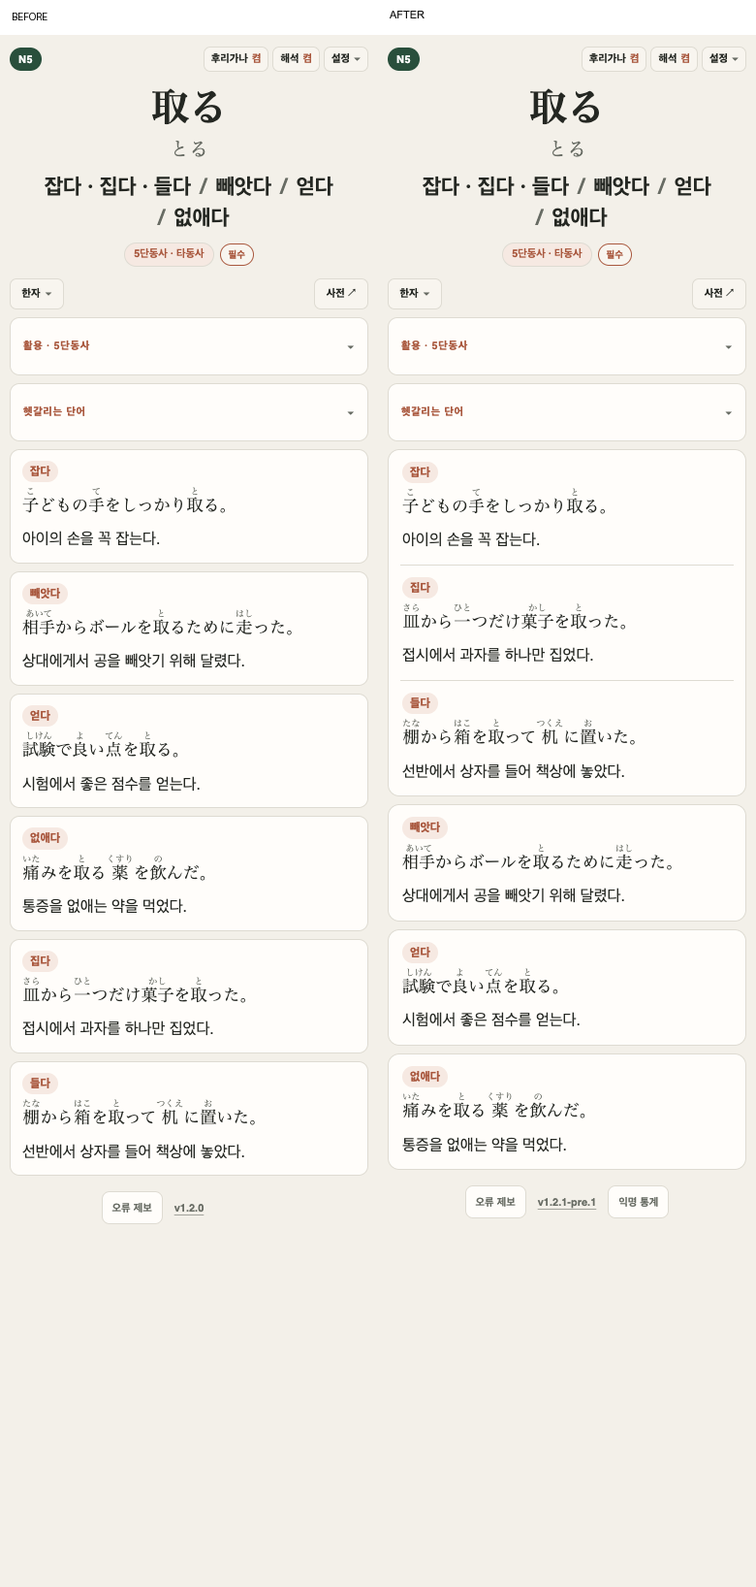
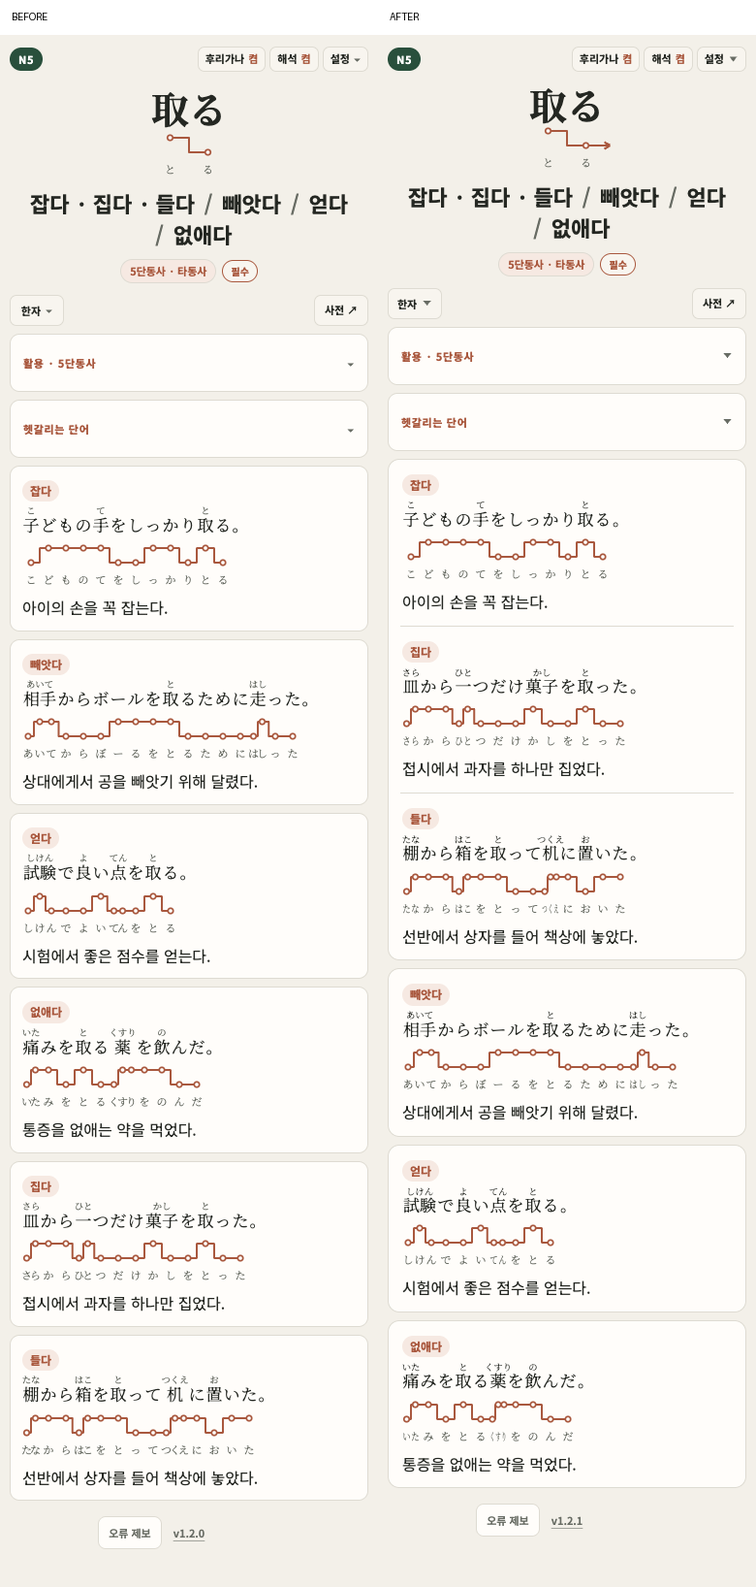
docs(release): describe v1.2.1 learner changes

diff --git a/docs/jlpt-gallery-updates/v1.2.1.html b/docs/jlpt-gallery-updates/v1.2.1.html
@@ -1,45 +1,59 @@
 <meta charset="utf-8">
 <!-- 상태: v1.2.1 릴리스 후보 검증 완료. 갤러리 게시 전 최종 검토용 초안. -->
-<!-- 게시글 제목: [Anki] JLPT MAX 덱 v1.2.1 - 카드 표시와 뜻 순서 교정 -->
+<!-- 게시글 제목: [Anki] JLPT MAX 덱 v1.2.1 - 폰트 깜빡임·뜻 순서 교정 -->
 <div style="max-width:760px;margin:0 auto;color:#1b211d;background:#fff;font-family:-apple-system,BlinkMacSystemFont,'Apple SD Gothic Neo','Noto Sans KR','Malgun Gothic',sans-serif;font-size:16px;line-height:1.8;word-break:keep-all;">
   <div style="padding:38px 28px 34px;text-align:center;color:#fff;background:#101512;border-top:8px solid #d8ff62;border-bottom:1px solid #2f3933;">
     <div style="margin-bottom:12px;color:#d8ff62;font-size:13px;font-weight:800;letter-spacing:.12em;">JLPT MAX Deck · v1.2.1</div>
-    <div style="font-size:36px;font-weight:900;line-height:1.2;letter-spacing:-.05em;">카드가 흔들리지 않게,<br>뜻과 읽기가 맞게.</div>
+    <div style="font-size:36px;font-weight:900;line-height:1.2;letter-spacing:-.05em;">카드는 덜 깜빡이고,<br>뜻과 예문은 제자리로.</div>
     <p style="max-width:620px;margin:18px auto 0;color:#d9dedb;font-size:18px;line-height:1.65;">
-      Mac에서 한자 버튼을 열고, 후리가나와 고저표를 읽고, 제보된 콘텐츠를 다시 확인한 안정판 패치.
+      카드를 넘길 때 글꼴과 글자가 움직이는 현상을 줄이고, 뜻과 예문을 같은 순서로 맞춘 안정화 업데이트.
     </p>
   </div>
 
+  <div style="padding:34px 8px 8px;">
+    <div style="padding:20px 22px;color:#1b211d;background:#fff3cd;border-left:8px solid #ffbf47;">
+      <strong style="font-size:19px;">v1.2.0에서 업데이트</strong><br>
+      <span style="color:#5f5436;">기존 덱을 삭제하지 않고 v1.2.1 APKG를 가져온 뒤, 학습 진행 상태는 끄고 기존 노트 업데이트는 새 버전일 때, 노트 유형 병합은 켜기를 선택함. 기존 한자 확장은 다시 만들 필요 없음.</span>
+    </div>
+  </div>
+
   <div style="padding:44px 8px 8px;">
-    <div style="padding-left:14px;border-left:7px solid #d8ff62;font-size:25px;font-weight:900;letter-spacing:-.04em;">한자 버튼과 사전 버튼을 같은 줄에서</div>
-    <p style="margin:16px 0 0;">한자 버튼은 카드가 직접 만든 클릭 동작 대신 기본 열고 닫기 동작을 사용함. Mac Anki에서도 두 버튼의 높이와 폭을 맞추고, 닫힘·펼침 화살표를 같은 칸에서 회전시켜 ‘한자’ 글자가 밀리지 않게 함.</p>
+    <div style="padding-left:14px;border-left:7px solid #d8ff62;font-size:25px;font-weight:900;letter-spacing:-.04em;">뜻을 본 순서대로 예문도 읽게</div>
+    <p style="margin:16px 0 0;">어휘 102개는 위쪽 뜻과 아래쪽 예문 순서를 맞췄음. 뜻이 <strong>/</strong>로 나뉘는 어휘 651개는 서로 다른 뜻의 예문을 흰색 영역으로 나눠, 어떤 예문이 어느 뜻에 속하는지 바로 구분할 수 있음.</p>
+    <p style="margin:12px 0 0;"><strong>取る</strong>는 <strong>잡다 · 집다 · 들다 / 빼앗다 / 얻다 / 없애다</strong> 순서로 뜻을 보고, 바로 아래에서도 같은 순서로 예문을 읽을 수 있음.</p>
+    <div style="margin-top:22px;text-align:center;">
+      <img src="https://truthyblue.github.io/jlpt-max-deck/assets/releases/v1.2.1/gallery-v1.2.1-meaning-groups-before-after.png" width="780" height="1636" loading="lazy" alt="v1.2.0과 v1.2.1의 取る 카드에서 뜻과 예문 순서를 비교한 화면" style="display:block;width:100%;max-width:620px;height:auto;margin:0 auto;background:#f5f1e8;border:1px solid #38433d;border-radius:12px;">
+    </div>
+  </div>
+
+  <div style="margin-top:28px;padding:34px 28px;color:#fff;background:#15201b;border-left:8px solid #8ee6b1;">
+    <div style="color:#8ee6b1;font-size:12px;font-weight:800;letter-spacing:.1em;">CARD VIEW</div>
+    <div style="margin-top:9px;font-size:25px;font-weight:900;line-height:1.3;letter-spacing:-.04em;">카드를 넘길 때 덜 깜빡이게</div>
+    <p style="margin:18px 0 0;color:#d9dedb;">Mac Anki에서 새 카드로 넘어갈 때 일본어가 굵게 보였다가 선택한 글꼴로 바뀌는 순간을 줄였음. 설정에서 명조체와 고딕체를 바꿀 때도 카드가 잠깐 사라지지 않고 글꼴만 바뀜.</p>
+    <p style="margin:12px 0 0;color:#d9dedb;">긴 후리가나는 옆 글자를 밀지 않고, 고저 악센트 선도 처음 나타날 때 덜 움직임.</p>
+  </div>
+
+  <div style="padding:44px 8px 8px;">
+    <div style="padding-left:14px;border-left:7px solid #d8ff62;font-size:25px;font-weight:900;letter-spacing:-.04em;">한자 버튼을 열어도 글자가 밀리지 않게</div>
+    <p style="margin:16px 0 0;">한자 버튼과 사전 버튼의 크기를 맞췄음. 한자 내용을 열고 닫아도 화살표와 ‘한자’ 글자가 옆으로 움직이지 않음.</p>
     <div style="margin-top:22px;text-align:center;">
       <img src="https://truthyblue.github.io/jlpt-max-deck/assets/releases/v1.2.1/gallery-v1.2.1-kanji-disclosure-closed.png" width="1280" height="720" loading="lazy" alt="Mac Anki에서 한자 버튼과 사전 버튼을 나란히 표시한 화면" style="display:block;width:100%;max-width:620px;height:auto;margin:0 auto;background:#f5f1e8;border:1px solid #38433d;border-radius:12px;">
-      <img src="https://truthyblue.github.io/jlpt-max-deck/assets/releases/v1.2.1/gallery-v1.2.1-kanji-disclosure-open.png" width="1280" height="720" loading="lazy" alt="한자 버튼을 연 뒤의 기본 상세 패널" style="display:block;width:100%;max-width:620px;height:auto;margin:16px auto 0;background:#f5f1e8;border:1px solid #38433d;border-radius:12px;">
+      <img src="https://truthyblue.github.io/jlpt-max-deck/assets/releases/v1.2.1/gallery-v1.2.1-kanji-disclosure-open.png" width="1280" height="720" loading="lazy" alt="한자 버튼을 연 뒤의 상세 내용" style="display:block;width:100%;max-width:620px;height:auto;margin:16px auto 0;background:#f5f1e8;border:1px solid #38433d;border-radius:12px;">
     </div>
   </div>
 
   <div style="margin-top:28px;padding:34px 28px;color:#fff;background:#15201b;border-left:8px solid #8ee6b1;">
-    <div style="color:#8ee6b1;font-size:12px;font-weight:800;letter-spacing:.1em;">READING</div>
-    <div style="margin-top:9px;font-size:25px;font-weight:900;line-height:1.3;letter-spacing:-.04em;">후리가나는 본문을 밀지 않게</div>
-    <p style="margin:18px 0 0;color:#d9dedb;">긴 후리가나는 본문 폭에 포함하지 않고, 실제로 옆 글자와 부딪힐 때만 필요한 만큼 간격을 둠. 고저표는 문장과 곡선 폭을 그대로 두고 좁은 모라의 히라가나 라벨만 칸 안에서 조정함.</p>
+    <div style="color:#8ee6b1;font-size:12px;font-weight:800;letter-spacing:.1em;">MOBILE SETTINGS</div>
+    <div style="margin-top:9px;font-size:25px;font-weight:900;line-height:1.3;letter-spacing:-.04em;">익명 통계 설정도 모바일에서 정상 작동</div>
+    <p style="margin:18px 0 0;color:#d9dedb;">iPhone·iPad와 Android 카드에서도 익명 통계 설정과 동의 창이 정상적으로 열림. 공유를 껐다 다시 켜거나 덱을 업데이트해도 같은 기기를 새 설치로 중복 집계하지 않음.</p>
   </div>
 
-  <div style="padding:44px 8px 8px;">
-    <div style="padding-left:14px;border-left:7px solid #d8ff62;font-size:25px;font-weight:900;letter-spacing:-.04em;">取る: 뜻 순서와 예문 순서 그대로</div>
-    <p style="margin:16px 0 0;"><strong>잡다 · 집다 · 들다 / 빼앗다 / 얻다 / 없애다</strong>라는 뜻 표시와 같은 순서로 예문을 배치함. 같은 뜻 묶음은 한 흰색 영역에 모으고, 독립 뜻은 다음 영역으로 나눔.</p>
-    <div style="margin-top:22px;text-align:center;">
-      <img src="https://truthyblue.github.io/jlpt-max-deck/assets/releases/v1.2.1/gallery-v1.2.1-meaning-groups-before-after.png" width="780" height="1636" loading="lazy" alt="v1.2.0과 v1.2.1의 取る 카드에서 뜻 묶음별 예문 표시를 비교한 화면" style="display:block;width:100%;max-width:620px;height:auto;margin:0 auto;background:#f5f1e8;border:1px solid #38433d;border-radius:12px;">
-    </div>
-  </div>
-
-  <div style="margin-top:28px;padding:34px 28px;color:#fff;background:#15201b;border-left:8px solid #8ee6b1;">
-    <div style="color:#8ee6b1;font-size:12px;font-weight:800;letter-spacing:.1em;">CONTENT</div>
-    <div style="margin-top:9px;font-size:25px;font-weight:900;line-height:1.3;letter-spacing:-.04em;">제보된 세 가지 표현도 교정</div>
-    <p style="margin:18px 0 0;color:#d9dedb;"><strong>猛</strong>은 `もう`, <strong>縁</strong>은 `가장자리 연 · 테두리 연`, <strong>木曜日</strong>는 정답과 해설 번호가 서로 맞도록 고쳤음.</p>
-    <div style="margin-top:20px;padding:18px 20px;color:#1b211d;background:#fff3cd;border-left:8px solid #ffbf47;">
-      <strong>v1.2.0에서 업데이트</strong><br>
-      <span style="color:#5f5436;">기존 덱을 삭제하지 않고 v1.2.1 APKG를 가져온 뒤, 학습 진행 상태는 끄고 기존 노트 업데이트는 새 버전일 때, 노트 유형 병합은 켜기를 선택함.</span>
+  <div style="padding:44px 8px 44px;">
+    <div style="padding-left:14px;border-left:7px solid #d8ff62;font-size:25px;font-weight:900;letter-spacing:-.04em;">제보된 세 가지 내용도 교정</div>
+    <p style="margin:16px 0 0;"><strong>猛</strong>은 <strong>もう</strong>로 읽고, <strong>縁</strong>은 <strong>가장자리 연 · 테두리 연</strong>으로 보기 쉽게 띄어 썼음. <strong>木曜日</strong> 문제는 정답 ②와 해설 ②가 서로 맞도록 고쳤음.</p>
+    <p style="margin:20px 0 0;color:#4e5852;">기본 덱 13,903노트·20,065카드와 기존 학습 기록은 그대로 유지됨. 음성도 기존 18,435개를 그대로 사용함.</p>
+    <div style="margin-top:22px;padding:18px 20px;text-align:center;background:#eef8f1;border:1px solid #cbded2;border-radius:12px;">
+      <a href="https://github.com/truthyblue/jlpt-max-deck/blob/v1.2.1/docs/release-details/v1.2.1.md" target="_blank" rel="noopener noreferrer" style="color:#173b26;font-weight:900;text-decoration:none;">v1.2.1 상세 변경 내역 보기 →</a>
     </div>
   </div>
 </div>

diff --git a/docs/release-details/v1.2.1.md b/docs/release-details/v1.2.1.md
@@ -1,94 +1,81 @@
 # JLPT MAX Deck v1.2.1 상세 변경 내역
 
-## 릴리스 경계
+v1.2.1은 카드를 넘길 때 글꼴과 글자가 움직이는 현상을 줄이고, 뜻과 예문을
+같은 순서로 맞춘 안정화 업데이트입니다.
 
-이번 파일은 정식 `v1.2.1`의 검토 범위와 실제 배포 산출물을 기록합니다. APKG
-내부 버전과 다운로드 파일명 모두 `1.2.1`을 사용합니다.
+## v1.2.0에서 업데이트하기
 
-## v1.2.0에서 유지한 것
+1. 모든 기기의 Anki 동기화를 끝내거나 컬렉션 백업을 확인합니다.
+2. 기존 덱을 삭제하지 않고 `JLPT-MAX-Deck-1.2.1.apkg`를 가져옵니다.
+3. **학습 진행 상태 가져오기 → 끄기**, **기존 노트 업데이트 → 새 버전일 때**,
+   **노트 유형 병합 → 켜기**를 선택합니다.
 
-| 항목 | 결과 |
-| --- | ---: |
-| 뜻 표시 순서에 맞춰 예문 순서를 바꾼 어휘 | 102개 |
-| 슬래시 뜻을 흰색 영역으로 나눠 표시한 어휘 | 651개 |
-| 두 변경의 합집합 | 697개 |
-| 추가·삭제된 노트 | 0개 |
-| 새로 합성한 음성 | 0개 |
+한자 확장 내용은 그대로이므로 v1.2.0에서 만든 확장을 다시 만들 필요가 없습니다.
 
-102개와 651개에는 두 조건에 모두 해당하는 어휘가 있어 합계가 697개입니다.
-뜻 문구 자체와 예문 문장·번역·음성은 이 변경에서 바꾸지 않았습니다.
+## 뜻과 예문
 
-## 카드 표시
+| 바뀐 점 | 수량 | 사용자가 보는 변화 |
+| --- | ---: | --- |
+| 뜻 표시 순서에 맞춰 예문 순서 조정 | 102개 | 위에서 본 뜻과 아래 예문을 같은 순서로 읽을 수 있음 |
+| `/`로 나뉜 뜻의 예문을 영역별로 구분 | 651개 | 서로 다른 뜻의 예문을 흰색 영역으로 나눠 볼 수 있음 |
+| 두 변경의 합집합 | 697개 | 두 조건에 모두 해당하는 어휘는 한 번만 셈 |
+
+`取る`는 `잡다 · 집다 · 들다 / 빼앗다 / 얻다 / 없애다` 순서로 뜻이 나오고,
+예문도 같은 순서로 나옵니다. 뜻 문구, 예문 문장, 번역과 음성은 바꾸지 않았습니다.
+
+![v1.2.0과 v1.2.1의 뜻 묶음별 예문 표시 비교](https://raw.githubusercontent.com/truthyblue/jlpt-max-deck/v1.2.1/site/assets/releases/v1.2.1/gallery-v1.2.1-meaning-groups-before-after.png)
+
+## 카드 화면
+
+### 글꼴 깜빡임
+
+Mac Anki에서 새 카드로 넘어갈 때 일본어가 굵게 보였다가 선택한 글꼴로 바뀌는
+순간을 줄였습니다. 고저 악센트 선도 처음 나타날 때 덜 움직입니다. 설정에서
+명조체와 고딕체를 바꿀 때는 카드 전체가 사라지지 않고 글꼴만 바로 바뀝니다.
+
+### 후리가나와 고저 악센트
+
+긴 후리가나가 옆 글자를 밀어내지 않습니다. 후리가나끼리 실제로 닿을 때만
+필요한 만큼 간격을 벌립니다. 문장과 고저 악센트 선은 원래 자리를 유지하므로
+길이가 긴 읽기도 더 안정적으로 볼 수 있습니다.
 
 ### 한자 버튼
 
-한자 버튼을 직접 만든 클릭 스크립트에서 기본 HTML `details/summary`로
-복원했습니다. 그래서 Mac Anki의 WebKit이 처리하는 기본 열기·닫기 동작을
-사용합니다. 카드의 사전 버튼과 한자 버튼은 같은 높이와 폭을 쓰도록 맞췄고,
-화살표는 닫힘·펼침 모두 같은 11×11px 칸을 사용합니다. 펼칠 때는 같은
-화살표를 180도 돌린 뒤 글꼴의 위아래 여백 차이를 3px 보정하므로 `한자`
-글자의 가로 위치가 밀리지 않고 두 화살표의 표시 영역도 맞습니다.
-한자 패널을 열었을 때 본문이 보이는지도 확인했습니다.
+한자 버튼과 사전 버튼의 높이와 폭을 맞췄습니다. 한자 내용을 열고 닫을 때
+화살표와 `한자` 글자가 옆으로 밀리지 않으며, 펼친 내용도 정상적으로 보입니다.
 
-### 후리가나와 고저표
+![Mac Anki에서 한자 버튼과 사전 버튼을 나란히 표시한 화면](https://raw.githubusercontent.com/truthyblue/jlpt-max-deck/v1.2.1/site/assets/releases/v1.2.1/gallery-v1.2.1-kanji-disclosure-closed.png)
 
-후리가나는 본문 글자의 폭을 차지하는 별도 상자처럼 처리하지 않습니다. 예를
-들어 `携帯電話`의 본문과 고저 곡선은 기존 위치를 유지하고, 좁은 모라 칸의
-`けい`·`たい` 같은 라벨만 그 칸 안에서 줄여 표시합니다. 긴 후리가나가 옆
-단어를 밀어내는 경우에는 실제로 겹칠 때만 겹친 만큼 간격을 넣습니다.
+![한자 버튼을 연 뒤의 상세 내용](https://raw.githubusercontent.com/truthyblue/jlpt-max-deck/v1.2.1/site/assets/releases/v1.2.1/gallery-v1.2.1-kanji-disclosure-open.png)
 
-WebKit에서 `<ruby><rt>`를 다루는 방식이 다른 경우에는 후리가나를 카드 전용
-표시 상자로 바꿔 같은 위치에 놓습니다. 글꼴 전환 중에는 글꼴이 준비될 때까지
-카드를 숨겼다가 한 번에 보여 줍니다. 이 때문에 `財` 카드로 이동할 때 굵은
-글꼴이 일반 글꼴로 깜빡이는 현상과 고저표의 초기 위치 튐을 함께 줄였습니다.
+## 모바일 익명 통계 설정
 
-## 콘텐츠 교정
+iPhone·iPad와 Android 카드에서 `익명 통계` 설정과 동의 창이 정상적으로 열립니다.
+공유를 껐다 다시 켜거나 덱을 업데이트해도 같은 기기를 새 설치로 중복 집계하지
+않습니다. 앱 데이터 삭제나 재설치 때만 새 설치로 집계됩니다.
 
-| 제보 | 수정 |
-| --- | --- |
-| `猛` 선택지 후리가나 | `たけし` → `もう` |
-| `縁` 뜻 간격 | `① 인연 연  ② 가장자리 연·테두리 연` → `① 인연 연 ② 가장자리 연 · 테두리 연` |
-| `木曜日` 문제 해설 | 정답 ②의 해설이 보기 ②를 설명하도록 순서 교정 |
+## 제보로 고친 내용
 
-이 세 교정은 기존 노트·카드 ID를 바꾸지 않는 카드 생성 단계의 보정입니다.
+| 단어 | 읽기 | 종류 | 이전 | 변경 | 이유 |
+| --- | --- | --- | --- | --- | --- |
+| `猛` | `もう` | 선택지 읽기 | `たけし` | `もう` | `猛反対`의 실제 읽기와 맞춤 |
+| `縁` | — | 뜻 표기 | `① 인연 연  ② 가장자리 연·테두리 연` | `① 인연 연 ② 가장자리 연 · 테두리 연` | 두 뜻과 같은 묶음의 표현을 한눈에 구분 |
+| `木曜日` | `もくようび` | 문제 해설 | 정답 ②와 해설 번호가 다름 | 정답 ②와 해설 ②가 일치 | 맞은 이유를 다른 보기의 해설과 헷갈리지 않게 함 |
 
-## 익명 사용 통계
-
-공유를 꺼도 기존 익명 설치 식별자는 기기 저장소에 남습니다. 공유를 다시 켜거나
-덱을 업데이트하고 앱을 껐다 켜도 같은 설치로 집계됩니다. 앱 데이터 삭제나
-재설치 때만 새 식별자가 만들어집니다.
-
-## 제보 테스트 덱 전수 목록
-
-이번 릴리스에 포함한 제보를 모두 작은 테스트 덱으로 분리해 9노트·14카드·22개
-미디어로 확인했습니다.
-
-| 제보 ID | 카드 | 확인 내용 |
-| --- | --- | --- |
-| R-76BD4984E3B1 | `援助` | 후리가나가 본문을 밀지 않고 겹칠 때만 간격 추가 |
-| R-B701504DE200 | 긴 후리가나 | 본문 폭을 늘리지 않음 |
-| R-39D2EB0E85BA | 글꼴 전환 | 전환 중 카드 깜빡임·높이 튐 없음 |
-| R-A354ED4ED268 | `携帯電話` | 좁은 고저표 모라 라벨만 조정 |
-| R-FB369F0265FD | `暴れる` | 한자 상세 패널 열기·닫기, 화살표 고정 칸·글자 위치 |
-| R-AEC03A03B197 | `財` | 글꼴 전환 뒤 표시 안정성 |
-| R-10906930E034 | `縁` | 뜻이 `가장자리 연 · 테두리 연`으로 붙어 보임 |
-| R-A3614346B234 | `猛` | 선택지 후리가나가 `もう`인지 확인 |
-| R-9F1D1178E957 | `木曜日` | 보기와 해설 번호 매핑 일치 |
-
-테스트 덱은 배포용 덱에 포함하지 않고, 이번 패치의 재현 범위만 확인하는
-검사용 산출물로 유지합니다.
-
-## 전체 APKG와 업데이트 확인
+## 전체 덱과 업데이트 확인
 
 - private 전체 APKG: 16,240노트·22,402카드
 - public 기본 APKG: 13,903노트·20,065카드
-- 음성: 18,435개 기존 바이트 재사용, 새 합성 0개
-- 한자 builder: 같은 검증된 입력으로 v1.2.1 파일 재생성
-- v1.2.0 컬렉션에 가져온 뒤 새 노트 0개·중복 0개·충돌 0개
-- 기존 GUID·학습 일정·노트 유형과 카드 구조 유지
-- 릴리스 워크플로 테스트와 pyright 통과
+- 기본 덱 미디어: 18,438개
+- 음성: 기존 18,435개 그대로 사용, 새 합성 0개
+- v1.2.0 덱에 가져온 뒤 새 노트 0개·중복 0개·충돌 0개
+- 기존 학습 기록, 일정과 카드 구조 유지
+- 제보 9건을 작은 검사 덱 9노트·14카드로 모두 확인
+- 전체 APKG 생성·가져오기와 릴리스 검사를 통과
 
-## 산출물
+실물 iPhone·iPad와 Android에서는 이번 안정판을 따로 재검증하지 않았습니다.
+
+## 파일 검증값
 
 | 파일 | bytes | SHA-256 |
 | --- | ---: | --- |

diff --git a/docs/release-drafts/v1.2.1-github-release.md b/docs/release-drafts/v1.2.1-github-release.md
@@ -1,6 +1,9 @@
 # JLPT MAX Deck v1.2.1
 
-## v1.2.0에서 가져오기
+카드를 넘길 때 일본어 글꼴이 번쩍 바뀌거나 글자가 움직이는 현상을 줄이고,
+뜻과 예문을 같은 순서로 맞춘 안정화 업데이트입니다.
+
+## v1.2.0에서 업데이트하기
 
 1. 모든 기기의 Anki 동기화를 끝내거나 컬렉션 백업을 확인합니다.
 2. 기존 덱을 삭제하지 않고 `JLPT-MAX-Deck-1.2.1.apkg`를 가져옵니다.
@@ -9,67 +12,55 @@
 
 한자 확장 내용은 v1.2.0과 같아서 다시 만들 필요가 없습니다.
 
-## 바뀐 점
+## 뜻과 예문을 바로 연결해서 보기
 
-### 뜻과 예문
-
-- 뜻 1·2·3의 표시 순서와 예문 순서가 어긋난 어휘 102개의 예문을 뜻 표시
-  순서대로 맞췄습니다.
-- 슬래시(`/`)로 나뉜 뜻이 여러 개인 어휘 651개는 뜻 묶음별로 예문을 흰색
-  영역에 나눠 보여 줍니다. 묶음용 칩은 따로 추가하지 않았습니다.
-- 예를 들어 `取る`는 `잡다 · 집다 · 들다 / 빼앗다 / 얻다 / 없애다` 순서에
-  맞춰 예문도 `잡다 → 집다 → 들다 → 빼앗다 → 얻다 → 없애다` 순서로
-  표시됩니다.
-
-### 카드 표시와 Mac WebKit
-
-- 한자 버튼은 임의로 만든 버튼 동작을 제거하고 기본 `details/summary` 동작으로
-  되돌렸습니다. Mac Anki에서 사전 버튼과 한자 버튼의 높이·너비를 같게
-  표시합니다. 닫힘·펼침 화살표는 같은 11×11px 칸을 쓰고 같은 화살표를
-  회전한 뒤 글꼴의 위아래 여백 차이를 3px 보정해 `한자` 글자가 밀리지 않게
-  했습니다. 한자 내용을 열고 닫는 동작도 같은 카드 안에서 확인했습니다.
-- 긴 후리가나는 문장이나 한자 본문의 폭을 늘리지 않게 했습니다. 후리가나끼리
-  실제로 부딪힐 때만 필요한 만큼 간격을 추가합니다.
-- 고저표는 문장·한자·후리가나·곡선의 폭을 바꾸지 않습니다. 모라 칸이 좁을
-  때만 그 칸 안의 히라가나 글자를 눌러 표시합니다.
-- 일본어 글꼴을 바꿀 때 글꼴이 적용되기 전 카드를 잠깐 숨겨서 굵은 글꼴에서
-  일반 글꼴로 깜빡이는 현상을 줄였습니다. Mac/iOS WebKit의 후리가나 처리
-  차이도 카드가 알아서 보정합니다.
-
-![Mac Anki에서 한자 버튼과 사전 버튼을 나란히 표시한 화면](https://raw.githubusercontent.com/truthyblue/jlpt-max-deck/v1.2.1/site/assets/releases/v1.2.1/gallery-v1.2.1-kanji-disclosure-closed.png)
-
-![한자 버튼을 연 뒤의 기본 상세 패널](https://raw.githubusercontent.com/truthyblue/jlpt-max-deck/v1.2.1/site/assets/releases/v1.2.1/gallery-v1.2.1-kanji-disclosure-open.png)
-
-### 제보로 확인한 콘텐츠
-
-- `猛` 선택지의 후리가나를 `たけし`에서 `もう`로 고쳤습니다.
-- `縁`의 뜻을 `① 인연 연 ② 가장자리 연 · 테두리 연`처럼 읽기 쉽게
-  표시합니다.
-- `木曜日` 문제에서 정답 ②와 해설 ②의 번호가 서로 맞도록 고쳤습니다.
-
-### 익명 통계
-
-- 카드 아래 버전 표시와 익명 사용 통계·오류 제보 버전을 `1.2.1`로 맞췄습니다.
-- iOS·Android 카드에서 `익명 통계` 설정과 동의 창, 답변 집계가 정상
-  시작되도록 고쳤습니다.
-- 익명 통계 공유를 꺼도 기존 설치 식별자는 기기에 남습니다. 다시 켜거나 덱을
-  업데이트하고 앱을 껐다 켜도 같은 설치로 집계되며, 앱 데이터 삭제나 재설치 때만
-  새 식별자가 만들어집니다.
-
-## 확인한 범위
-
-- 오류 제보 전용 테스트 덱에 선택한 9개 제보를 9노트·14카드로 넣어 확인했습니다.
-- 릴리스 워크플로 테스트, pyright, 전체 APKG 생성·가져오기 호환성 검사를
-  통과했습니다.
-- 음성 18,435개는 기존 AivisSpeech 1.2.0 결과를 그대로 재사용했고 새로 합성한
-  음성은 0개입니다.
-- 노트·카드 ID, 덱 구조, 학습 일정 호환성은 v1.2.0과 같습니다.
+- 어휘 102개는 카드 위쪽의 뜻과 아래쪽 예문이 같은 순서로 나옵니다.
+- 뜻이 `/`로 나뉘는 어휘 651개는 서로 다른 뜻의 예문을 흰색 영역으로
+  나눠 보여 줍니다. 어떤 예문이 어느 뜻에 속하는지 더 쉽게 구분할 수 있습니다.
+- 예를 들어 `取る`는 `잡다 · 집다 · 들다 / 빼앗다 / 얻다 / 없애다` 순서로
+  뜻을 보고, 바로 아래에서도 같은 순서로 예문을 읽을 수 있습니다.
 
 ![v1.2.0과 v1.2.1의 뜻 묶음별 예문 표시 비교](https://raw.githubusercontent.com/truthyblue/jlpt-max-deck/v1.2.1/site/assets/releases/v1.2.1/gallery-v1.2.1-meaning-groups-before-after.png)
 
-전체 수량, 음성, 덱 구조와 학습 기록 호환성은 v1.2.0과 같습니다. 자세한 범위와
-검증 결과는 [v1.2.1 상세 변경 내역](https://github.com/truthyblue/jlpt-max-deck/blob/v1.2.1/docs/release-details/v1.2.1.md)에서
-확인할 수 있습니다.
+## 카드를 넘길 때 덜 깜빡이게
+
+- Mac Anki에서 새 카드로 넘어갈 때 일본어가 굵게 보였다가 선택한 글꼴로
+  바뀌는 순간을 줄였습니다. 고저 악센트 선도 처음 나타날 때 덜 움직입니다.
+- 설정에서 명조체와 고딕체를 바꿀 때 카드 전체가 잠깐 사라지지 않고,
+  화면을 그대로 보면서 글꼴만 바뀝니다.
+- 긴 후리가나가 옆 글자를 밀어내지 않습니다. 실제로 글자끼리 닿을 때만
+  간격을 벌려 문장과 고저 악센트 선의 자리를 유지합니다.
+- 한자 버튼과 사전 버튼의 크기를 맞췄습니다. 한자 내용을 열고 닫아도
+  화살표와 `한자` 글자가 옆으로 밀리지 않습니다.
+
+![Mac Anki에서 한자 버튼과 사전 버튼을 나란히 표시한 화면](https://raw.githubusercontent.com/truthyblue/jlpt-max-deck/v1.2.1/site/assets/releases/v1.2.1/gallery-v1.2.1-kanji-disclosure-closed.png)
+
+![한자 버튼을 연 뒤의 상세 내용](https://raw.githubusercontent.com/truthyblue/jlpt-max-deck/v1.2.1/site/assets/releases/v1.2.1/gallery-v1.2.1-kanji-disclosure-open.png)
+
+## 모바일 익명 통계 설정
+
+- iPhone·iPad와 Android 카드에서도 `익명 통계` 설정과 동의 창이 정상적으로
+  열리고, 동의한 경우에만 답변 수가 집계됩니다.
+- 공유를 껐다 다시 켜거나 덱을 업데이트해도 같은 기기를 새 설치로 중복
+  집계하지 않습니다. 앱 데이터 삭제나 재설치 때만 새 설치로 집계됩니다.
+
+## 제보로 고친 내용
+
+- `猛` 선택지의 읽기를 `たけし`에서 `もう`로 고쳤습니다.
+- `縁`의 뜻을 `① 인연 연 ② 가장자리 연 · 테두리 연`처럼 읽기 쉽게
+  띄어 썼습니다.
+- `木曜日` 문제에서 정답 ②와 해설 ②가 서로 맞도록 고쳤습니다.
+
+## 덱 구성과 학습 기록
+
+- 기본 덱은 13,903노트·20,065카드입니다.
+- 전체 구성은 16,240노트·22,402카드입니다.
+- 기존 학습 기록과 일정은 그대로 이어집니다.
+- 음성 18,435개는 그대로 사용했고 새로 합성한 음성은 없습니다.
+- v1.2.0 덱에 가져와 새 노트 0개·중복 0개·충돌 0개를 확인했습니다.
+
+자세한 변경 수량과 확인 결과는 [v1.2.1 상세 변경 내역](https://github.com/truthyblue/jlpt-max-deck/blob/v1.2.1/docs/release-details/v1.2.1.md)에서
+볼 수 있습니다.
 
 ## 파일
 

diff --git a/docs/releases/v1.2.1.md b/docs/releases/v1.2.1.md
@@ -1,8 +1,8 @@
 # v1.2.1
 
-v1.2.1은 뜻 표시 순서와 예문 순서를 맞추고, 슬래시로 나뉜 뜻의 예문을
-흰색 영역으로 나눠 보여 주는 패치입니다. Mac Anki의 한자 버튼, 후리가나,
-고저표와 글꼴 전환도 안정화하고 제보된 콘텐츠 세 건을 교정했습니다.
+v1.2.1은 카드를 넘길 때 일본어 글꼴이 번쩍 바뀌거나 글자가 움직이는 현상을
+줄이고, 뜻과 예문을 같은 순서로 맞춘 안정화 업데이트입니다. Mac Anki의 한자
+버튼과 긴 후리가나도 더 안정적으로 보이며, 제보된 내용 세 건을 교정했습니다.
 
 ## v1.2.0 사용자의 업데이트 절차
 
@@ -41,12 +41,12 @@ v1.1.x와 v1.0.x에서 바로 업데이트한다면 v1.1.x의 뜻·예문 변경
 
 ## Mac Anki 카드 표시
 
-- 한자 버튼은 기본 `details/summary` 열기·닫기 동작을 사용합니다. 사전 버튼과
-  높이·너비를 맞추고 같은 칸의 화살표를 회전해 `한자` 글자가 밀리지 않게 했습니다.
-- 긴 후리가나는 본문 폭을 늘리지 않고 실제로 겹칠 때만 간격을 추가합니다.
-- 고저표는 문장과 곡선 폭을 유지하고 좁은 모라 칸의 글자만 조정합니다.
-- 일본어 글꼴이 준비되기 전 카드를 잠깐 숨겨 글꼴과 고저표가 튀는 현상을
-  줄였습니다.
+- 새 카드로 넘어갈 때 일본어가 굵게 보였다가 선택한 글꼴로 바뀌는 순간을
+  줄였습니다. 고저 악센트 선도 처음 나타날 때 덜 움직입니다.
+- 설정에서 명조체와 고딕체를 바꿀 때 카드가 잠깐 사라지지 않고 글꼴만 바뀝니다.
+- 긴 후리가나는 옆 글자를 밀지 않고, 실제로 글자끼리 닿을 때만 간격을 벌립니다.
+- 한자 버튼과 사전 버튼의 크기를 맞췄습니다. 내용을 열고 닫아도 화살표와
+  `한자` 글자가 옆으로 밀리지 않습니다.
 
 ![Mac Anki에서 한자 버튼과 사전 버튼을 나란히 표시한 화면](https://raw.githubusercontent.com/truthyblue/jlpt-max-deck/main/site/assets/releases/v1.2.1/gallery-v1.2.1-kanji-disclosure-closed.png)
 
